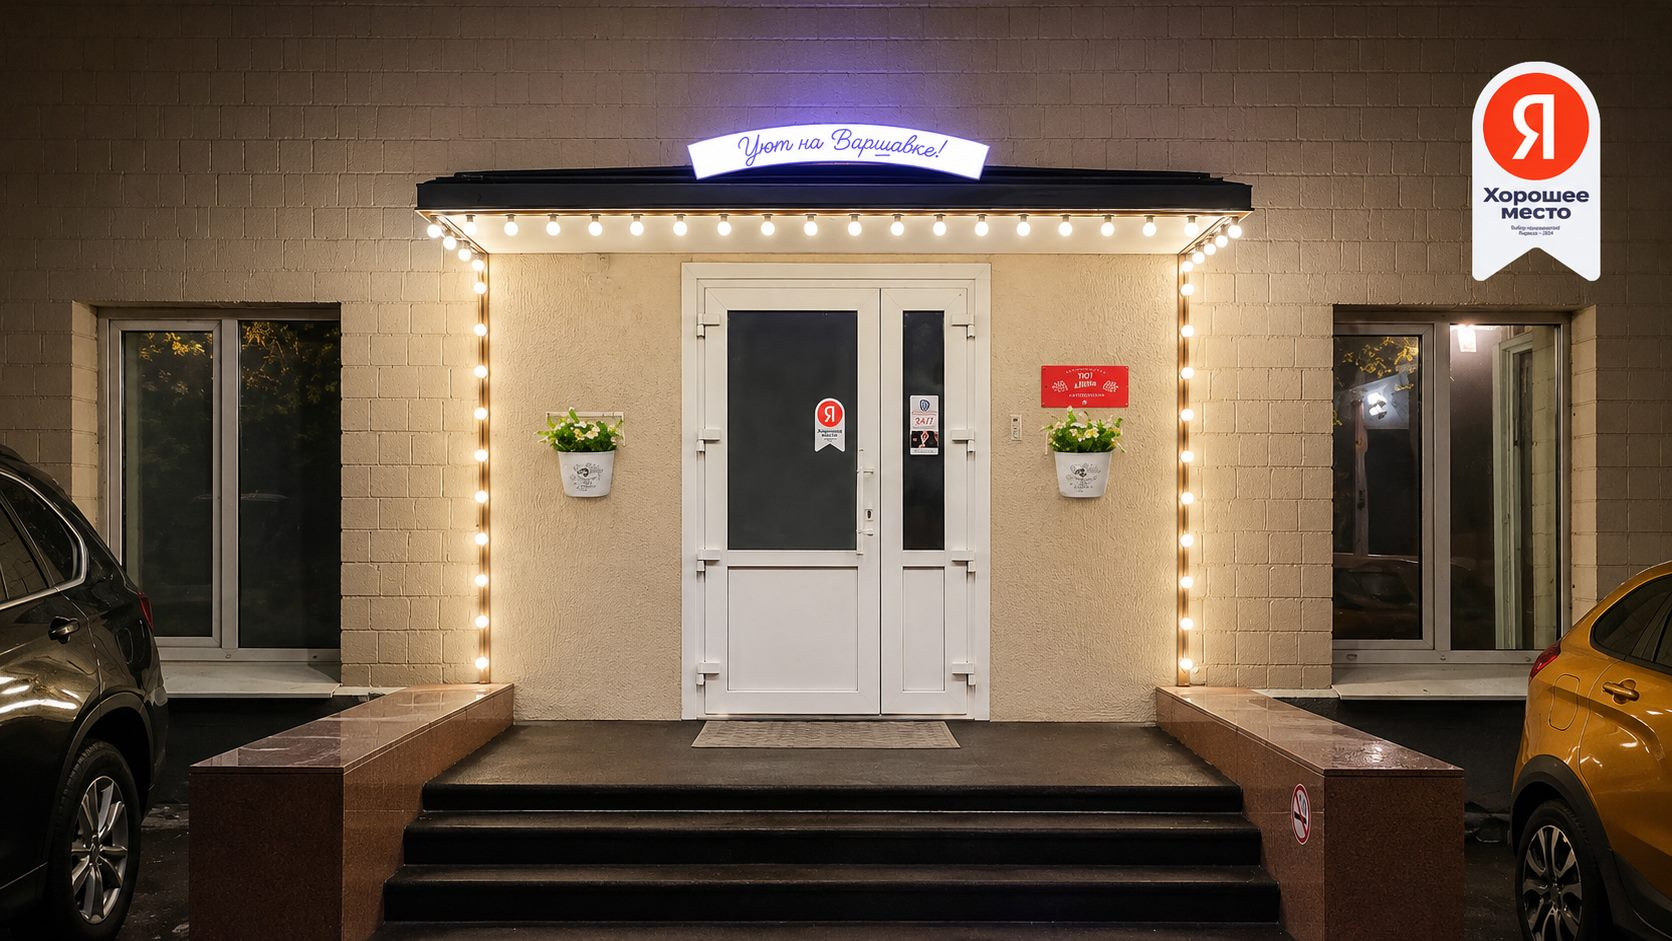
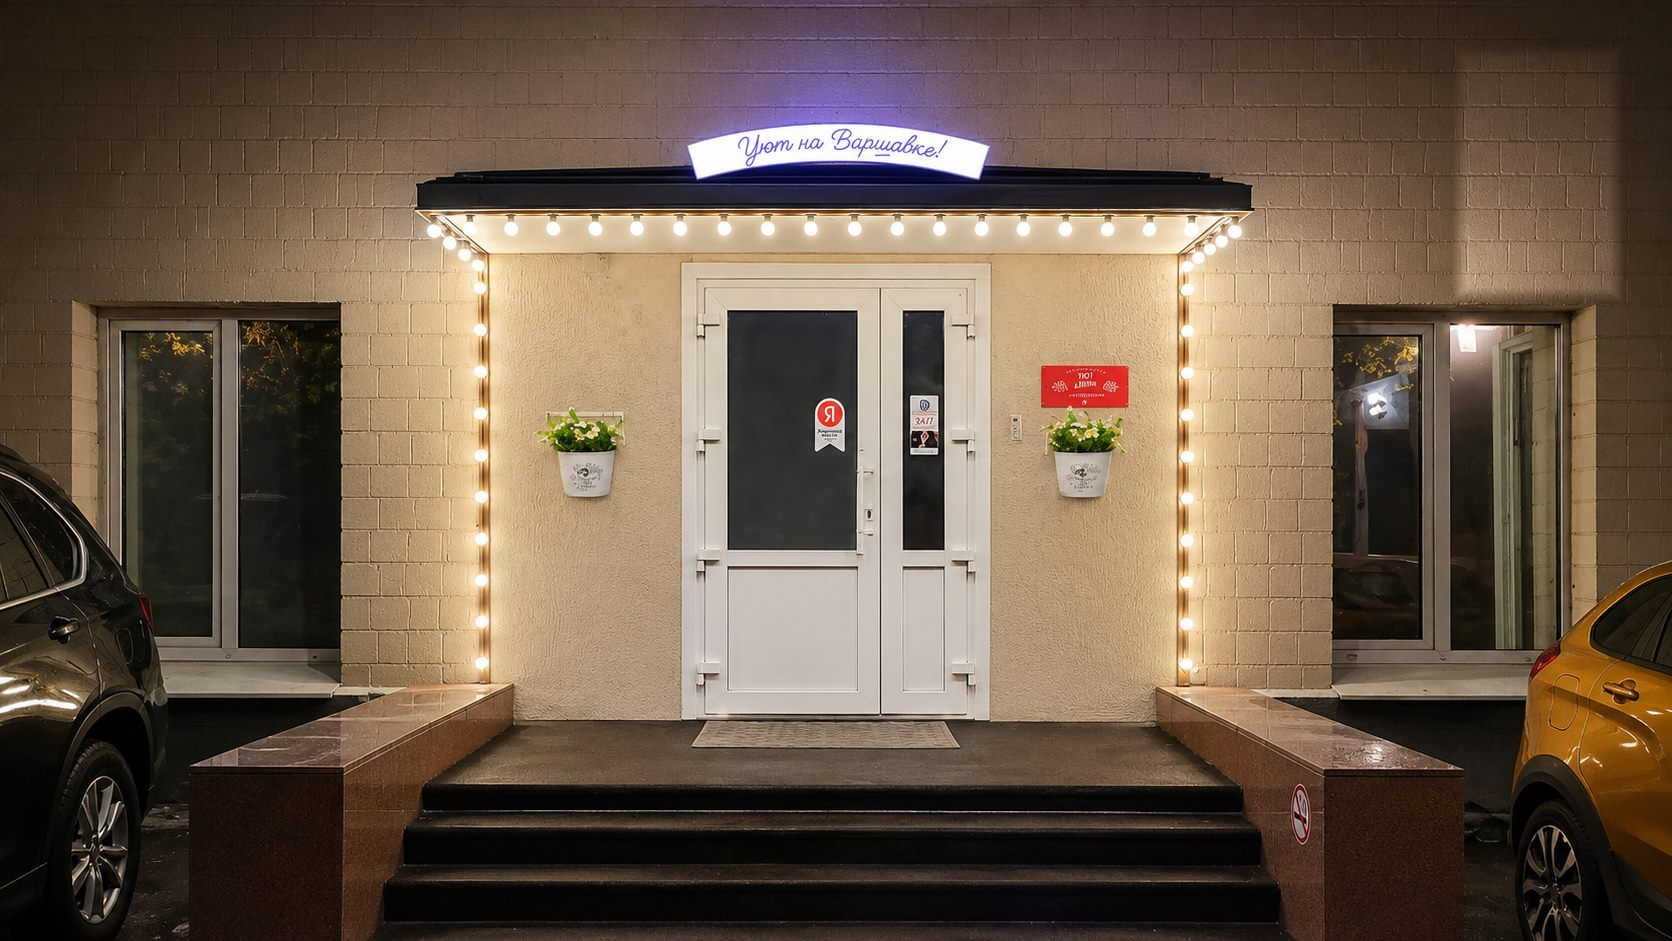
Репутация: слова на цветной полосе, значки в кольце; снята метка с фото
Шкала: подписи секторов переехали с серого кольца на саму цветную полосу
и набраны белым по дуге. Кольцо отдано значкам — два разбитых сердца на
«Опасности», одно на «Внимании», одна жёлтая звезда на «Начале», три на
«Хорошо», пять на «Отлично». Иконки внутри полосы и деления со значениями
убраны. Значки повёрнуты вместе с дугой, иначе по краям заваливались.

Первый снимок Уюта: убрана метка «Хорошее место» из правого верхнего
угла. Закрыта куском той же кирпичной стены; сдвиг подобран перебором —
выбран тот, при котором швы кладки над меткой и под ней совпадают
(167 пикселей), края растушёваны.

Changed region(s): [[0.8708, 0.0616, 0.9641, 0.339]]

diff --git a/web/reputation.html b/web/reputation.html
@@ -153,6 +153,30 @@
       '<path d="M12.6 5.4L10.2 9.4l3.4 1.6-3 3.6 2.8 1.8-2.6 3.6 1.2 2.2" fill="none" stroke="' + BG + '" stroke-width="1.5" stroke-linecap="round" stroke-linejoin="round"/>';
   }
 
+  /* Значки в сером кольце: сколько и каких на каждый сектор.
+     Смещения в градусах от середины сектора — на радиусе 465 один градус
+     это около восьми пикселей, поэтому 5,5° дают привычный зазор. */
+  var MARKS = [
+    { type: 'broken', at: [-4.5, 4.5] },                 // Опасность — два разбитых
+    { type: 'broken', at: [0] },                          // Внимание — одно
+    { type: 'star',   at: [0] },                          // Начало — одна звезда
+    { type: 'star',   at: [-6, 0, 6] },                    // Хорошо — три
+    { type: 'star',   at: [-11, -5.5, 0, 5.5, 11] }        // Отлично — пять
+  ];
+  var STAR_D = 'M12 2.5l2.9 6.1 6.7.9-4.9 4.6 1.3 6.7L12 17.6l-6 3.2 1.3-6.7L2.4 9.5l6.7-.9z';
+  var MARK_GREY = '#9A9A9A', MARK_YELLOW = '#FFD93D';
+
+  /* Значок стоит на дуге и повёрнут вместе с ней, иначе по краям шкалы
+     он заваливается набок */
+  function mark(type, a) {
+    var p = pt(465, a), k = 1.45;
+    var body = type === 'star'
+      ? '<path d="' + STAR_D + '" fill="' + MARK_YELLOW + '"/>'
+      : '<path d="' + HEART + '" fill="' + MARK_GREY + '"/>' +
+        '<path d="M12.6 5.4L10.2 9.4l3.4 1.6-3 3.6 2.8 1.8-2.6 3.6 1.2 2.2" fill="none" stroke="' + GREY + '" stroke-width="1.7" stroke-linecap="round" stroke-linejoin="round"/>';
+    return '<g transform="translate(' + f(p[0]) + ' ' + f(p[1]) + ') rotate(' + f(90 - a) + ') scale(' + k + ') translate(-12 -12)">' + body + '</g>';
+  }
+
   function gauge() {
     var ang = angOf(state.v), rot = 90 - ang;
     var s = ['<svg viewBox="0 0 1024 760" xmlns="http://www.w3.org/2000/svg" role="img" aria-label="Репутация ' + sign(state.v) + Math.abs(state.v) + ', жизней ' + state.lives + '">', '<defs>'];
@@ -179,22 +203,20 @@
     s.push('<circle cx="' + CX + '" cy="' + CY + '" r="218" fill="' + BG + '"/>');
     s.push('<rect x="0" y="' + (CY + 0.5) + '" width="1024" height="8" fill="' + BG + '"/>');
 
+    /* Слова — белым по дуге на самой цветной полосе; серое кольцо снаружи
+       отдано значкам: разбитые сердца слева, звёзды справа. Делений со
+       значениями нет (решение заказчика 24.09.2026). */
     S.forEach(function (x, i) {
       var a1 = 180 - 36 * i - 1.6, a2 = 144 - 36 * i + 1.6;
       s.push('<path d="' + ring(434, 499, a1, a2) + '" fill="' + GREY + '"/>');
-      s.push('<path id="t' + i + '" d="' + arc(465, a1, a2) + '" fill="none"/>');
-      s.push('<text font-size="28" fill="' + TXT + '" font-family="var(--msv-font)"><textPath href="#t' + i + '" startOffset="50%" text-anchor="middle" dominant-baseline="central">' + esc(x.word) + '</textPath></text>');
+      s.push('<path id="w' + i + '" d="' + arc(322, a1, a2) + '" fill="none"/>');
+      s.push('<text font-size="30" font-weight="600" fill="#fff" font-family="var(--msv-font)"><textPath href="#w' + i + '" startOffset="50%" text-anchor="middle" dominant-baseline="central">' + esc(x.word) + '</textPath></text>');
     });
-    ICONS.forEach(function (k, i) {
-      var p = pt(322, 162 - 36 * i), sc = 3.6;
-      s.push('<g class="ic" transform="translate(' + f(p[0] - 12 * sc) + ' ' + f(p[1] - 12 * sc) + ') scale(' + sc + ')" fill="none" stroke="none">' + IC[k] + '</g>');
+
+    MARKS.forEach(function (m, i) {
+      var mid = 162 - 36 * i;
+      m.at.forEach(function (d) { s.push(mark(m.type, mid + d)); });
     });
-    for (var u = -30; u <= 50; u++) {
-      var a = angOf(u), big = u % 10 === 0, mid = u % 5 === 0;
-      var r1 = big ? 198 : mid ? 204 : 209, p1 = pt(r1, a), p2 = pt(215, a);
-      s.push('<line x1="' + f(p1[0]) + '" y1="' + f(p1[1]) + '" x2="' + f(p2[0]) + '" y2="' + f(p2[1]) + '" stroke="' + INK + '" stroke-width="' + (big ? 2 : 1.1) + '" opacity="' + (big ? .75 : .45) + '"/>');
-      if (big) { var q = pt(176, a); s.push('<text x="' + f(q[0]) + '" y="' + f(q[1]) + '" font-size="28" fill="' + TXT + '" text-anchor="middle" dominant-baseline="central" font-family="var(--msv-font)">' + (u > 0 ? '+' : '') + u + '</text>'); }
-    }
     var len = 318;
     s.push('<g class="needle needle--reset" id="needle" data-rot="' + f(rot) + '" style="transform-origin:' + CX + 'px ' + CY + 'px;transform:rotate(-90deg)"><path d="M' + CX + ' ' + (CY - len) + ' L' + (CX - 12) + ' ' + (CY - 14) + ' L' + (CX + 12) + ' ' + (CY - 14) + ' Z" fill="' + INK + '"/></g>');
     s.push('<circle cx="' + CX + '" cy="' + CY + '" r="30" fill="' + BG + '" stroke="' + INK + '" stroke-width="4"/><circle cx="' + CX + '" cy="' + CY + '" r="10" fill="' + INK + '"/>');
